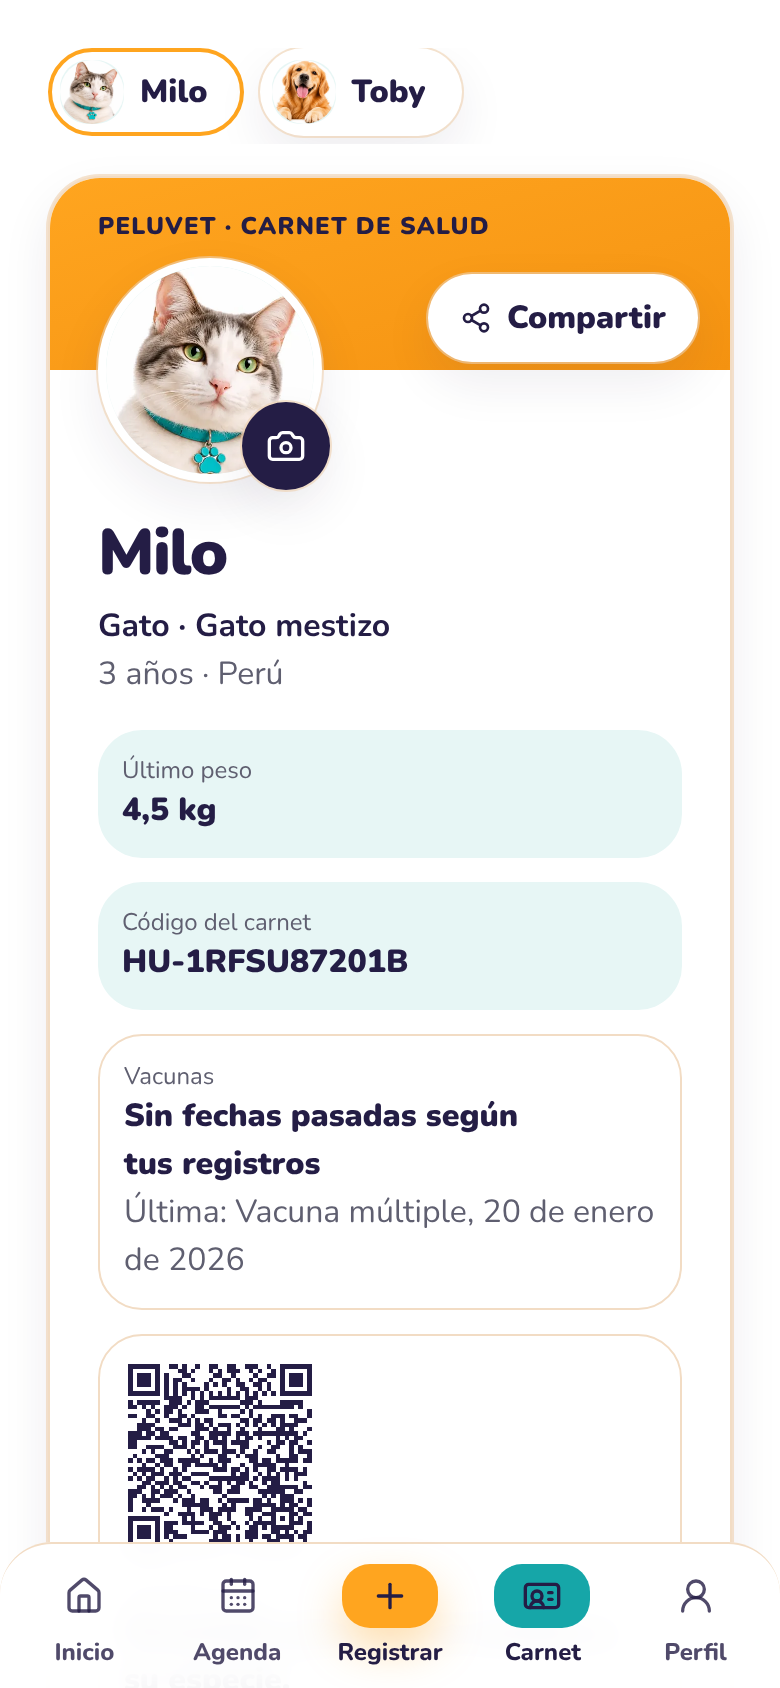
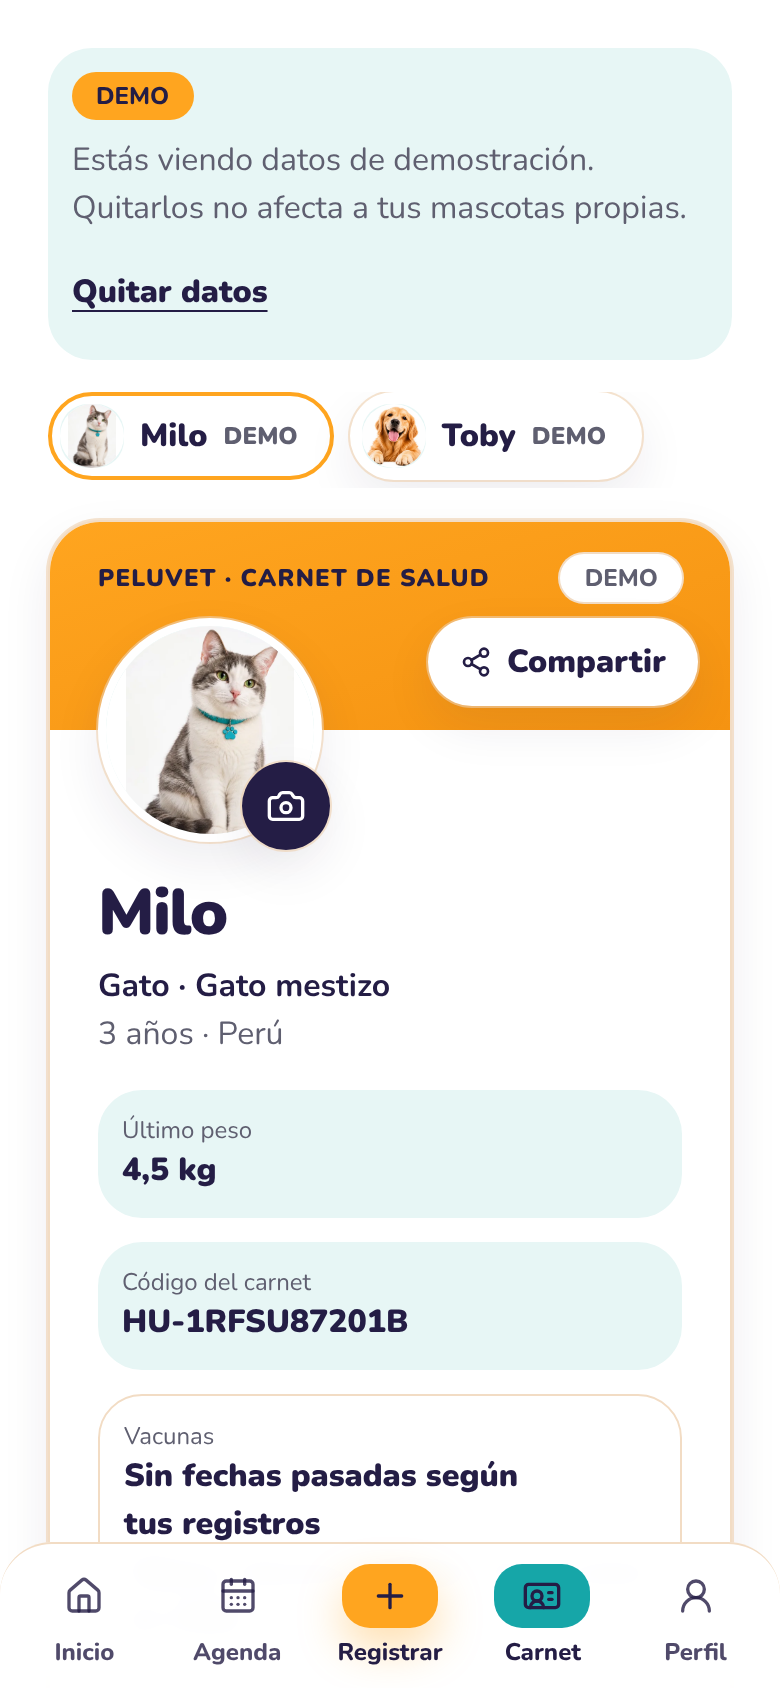
Fotos: la mascota completa dentro de los círculos
- Los círculos de foto de la app (Inicio, Actividad, Carnet, selector de mascotas) muestran la foto entera, sin recortar las orejas ni las patas.
- La imagen para compartir ajusta la foto dentro del círculo sin estirarla.
- Se regeneran las capturas de Inicio y de Carnet de la portada. La del carnet anterior queda en respaldo.

Sigue en modo demostración: sin Supabase, Hotmart ni cobros.

Claude-Session: https://claude.ai/code/session_01BjtNdvUPFYYkV9nZtombvC

diff --git a/lib/carnet-imagen.ts b/lib/carnet-imagen.ts
@@ -112,11 +112,17 @@ export async function generarImagenCarnet(
     const foto = await cargar(visual.foto);
     const cx = x + w / 2;
     const cy = iy + lado / 2;
+    // La foto entera dentro del círculo: se ajusta sin recortar ni estirar (como en la app).
+    const escala = Math.min(400 / foto.width, 400 / foto.height);
+    const fw = foto.width * escala;
+    const fh = foto.height * escala;
     ctx.save();
     ctx.beginPath();
     ctx.arc(cx, cy, 200, 0, Math.PI * 2);
     ctx.clip();
-    ctx.drawImage(foto, cx - 200, cy - 200, 400, 400);
+    ctx.fillStyle = "#ffffff";
+    ctx.fillRect(cx - 200, cy - 200, 400, 400);
+    ctx.drawImage(foto, cx - fw / 2, cy - fh / 2, fw, fh);
     ctx.restore();
     ctx.lineWidth = 12;
     ctx.strokeStyle = c.papel;

diff --git a/components/ui/mascota-avatar.tsx b/components/ui/mascota-avatar.tsx
@@ -30,7 +30,7 @@ export function MascotaAvatar({
         width={tamano}
         height={tamano}
         unoptimized
-        className={cn("rounded-full object-cover", className)}
+        className={cn("rounded-full bg-papel object-contain", className)}
         style={{ width: tamano, height: tamano }}
       />
     );
